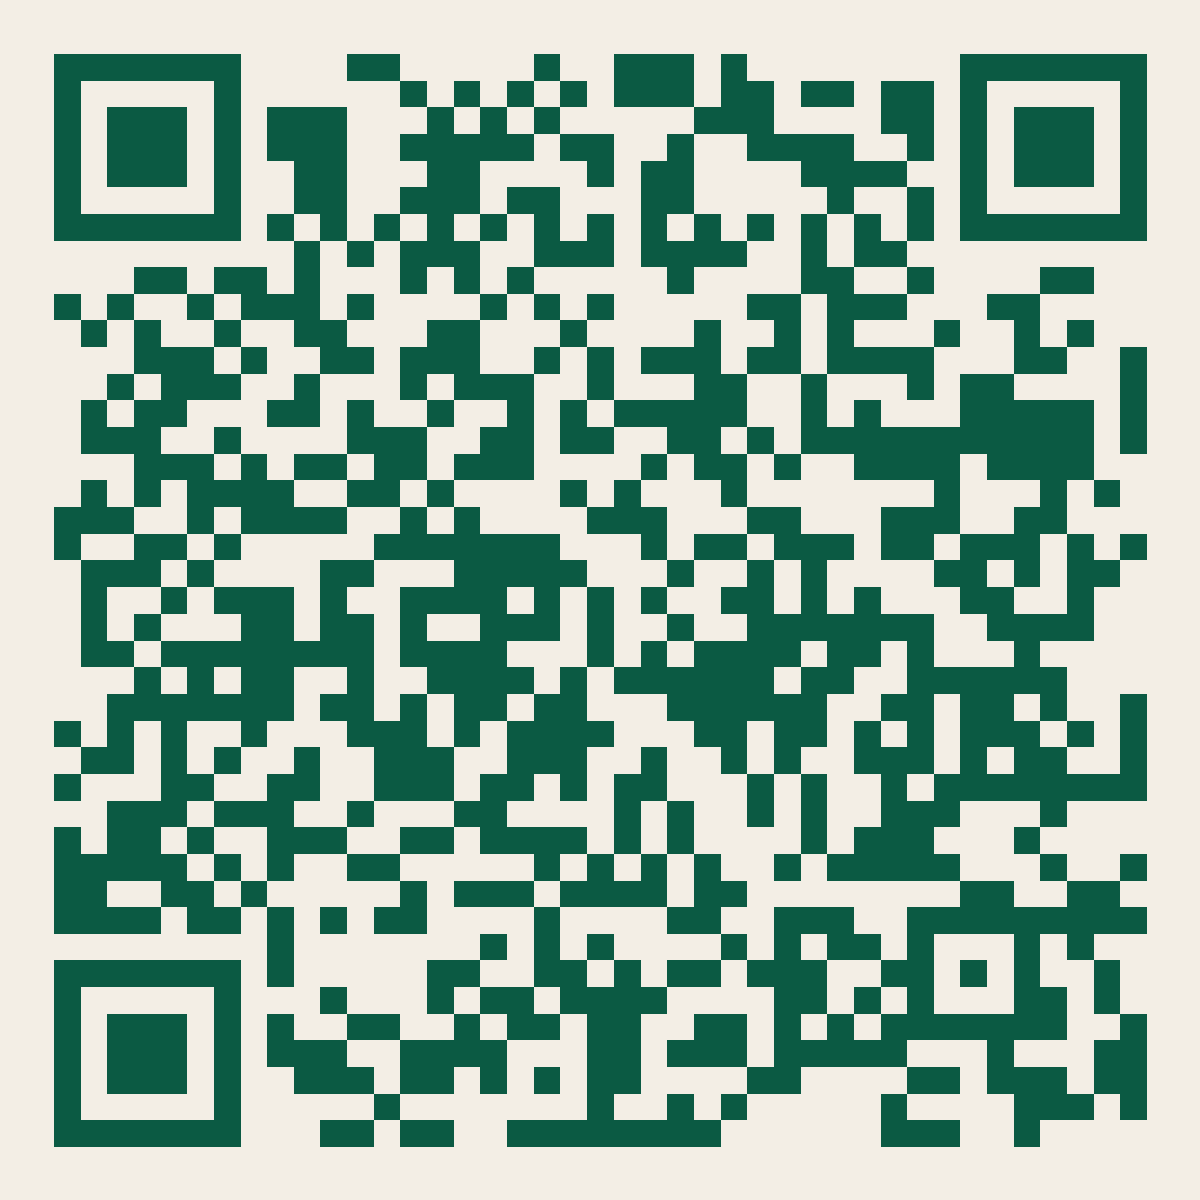
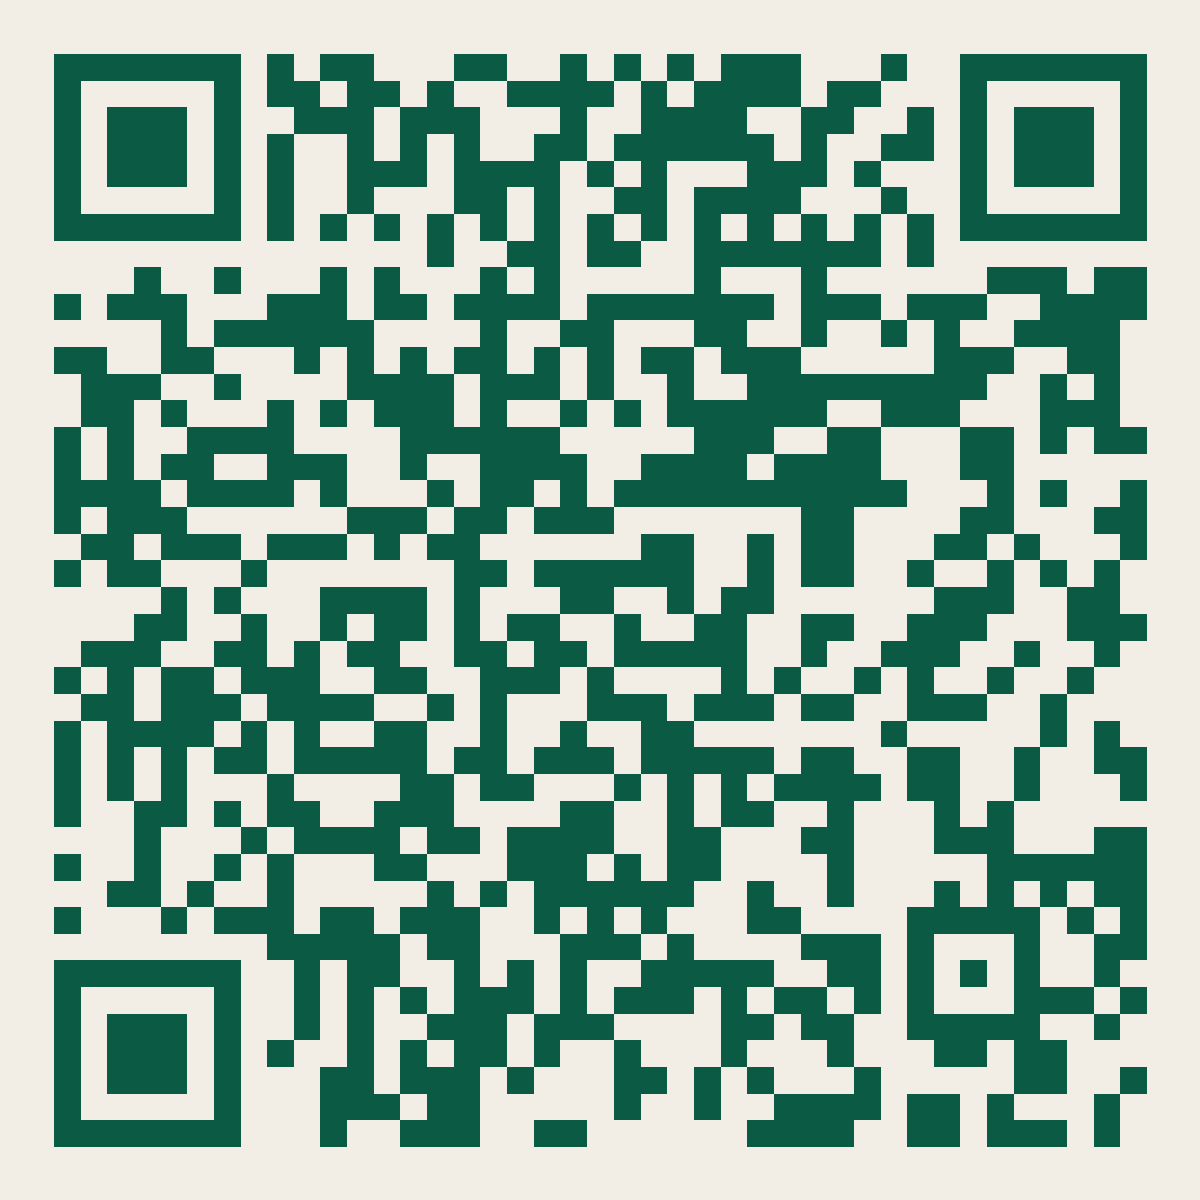
chore(demo): apuntar qr al tunel final

diff --git a/demo/qr-demo.html b/demo/qr-demo.html
@@ -52,9 +52,9 @@
     </div>
     <h1>Abre la caja en tu teléfono</h1>
     <div class="stamp">Modo demo</div>
[2 lines of base64/hex data omitted]
     <p>Escanea con la cámara. Es la misma caja que ve la comerciante: ventas, cobros, fiado, corte y metas.</p>
-    <p class="url">https://timing-brought-lamp-aberdeen.trycloudflare.com</p>
+    <p class="url">https://auction-margaret-mapping-deputy.trycloudflare.com</p>
     <div class="foot">Prototipo DevDay Exchange CDMX 2026 · pey + OpenAI · datos de demostración</div>
   </div>
 </body>
